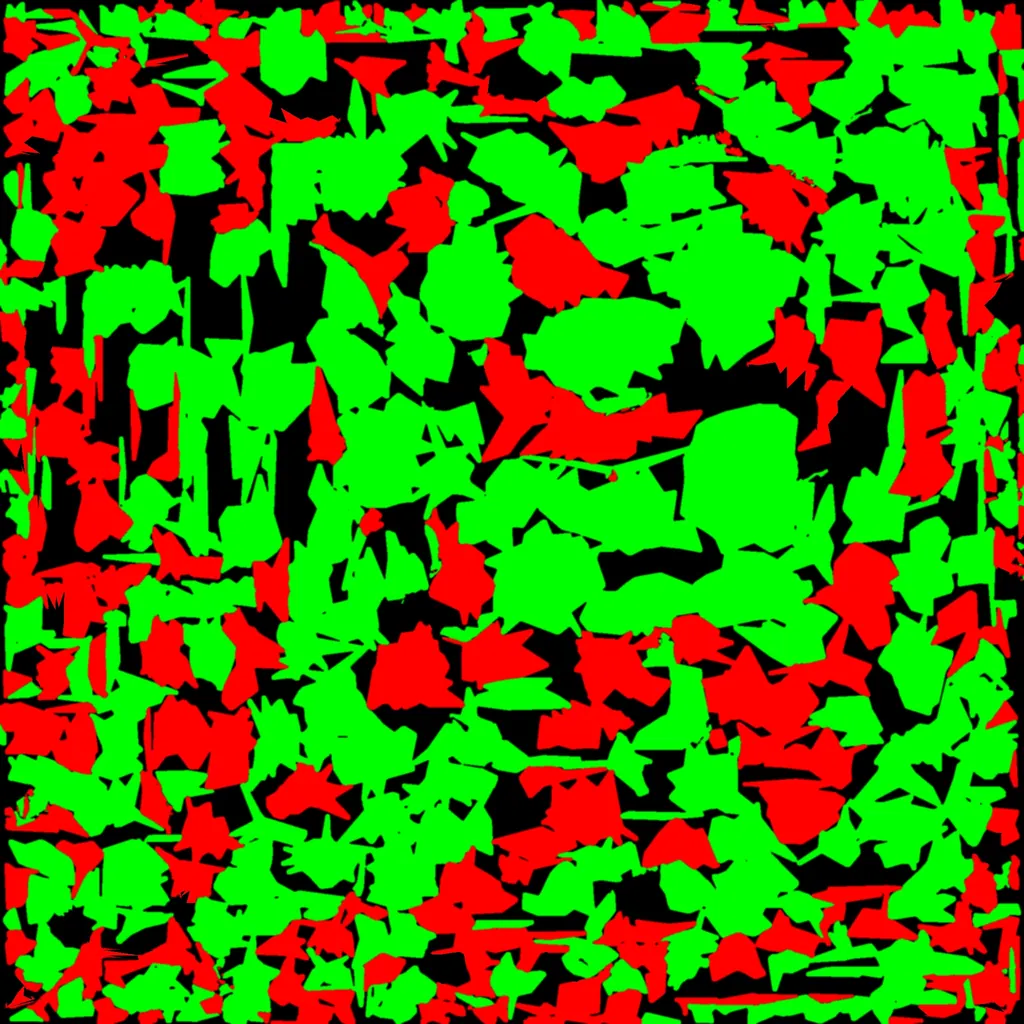
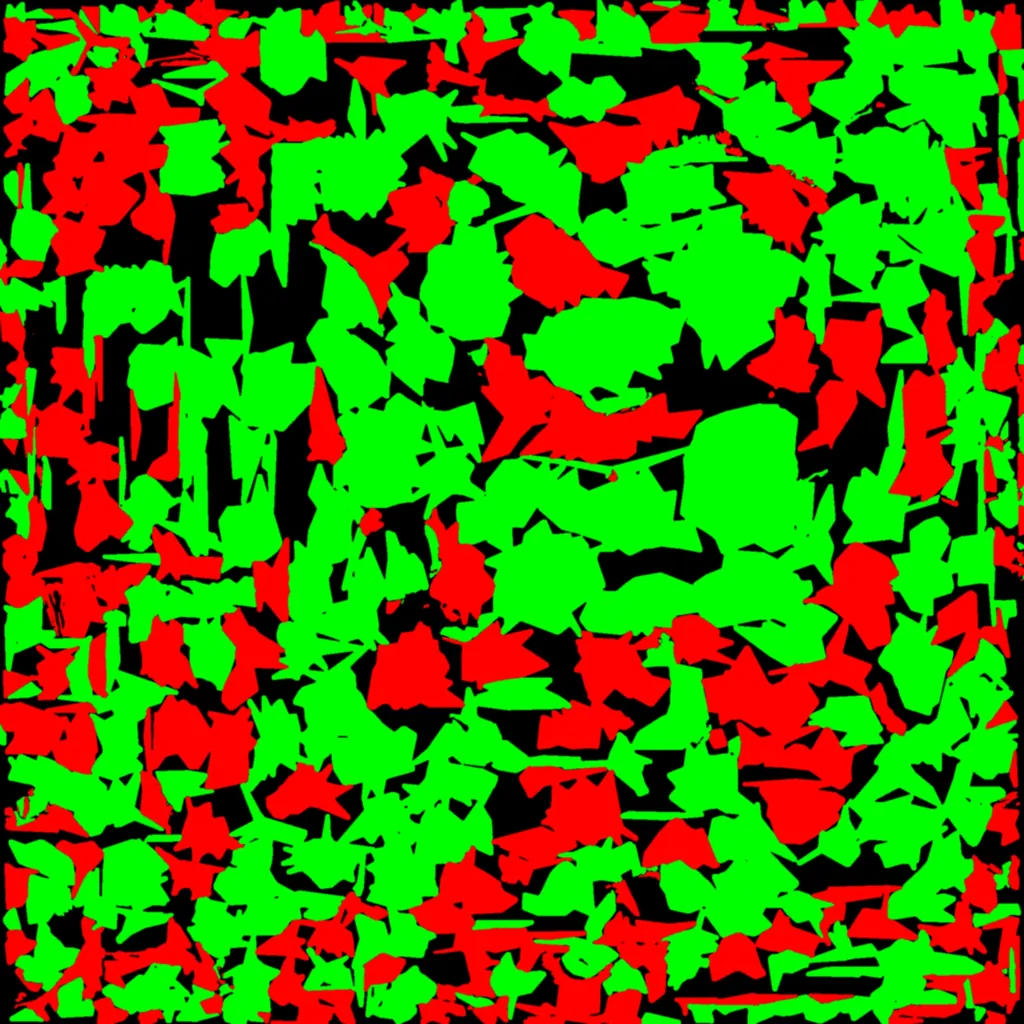
Porté · Duo : bas du t-shirt net au-dessus du short
La limite t-shirt / short de la femme se décide au pixel, sur la couleur (t-shirt blanc, short gris clair),
au lieu de la coupe par triangles qui laissait un bord en dents de scie. Adresses des modèles en ?v=4.

Claude-Session: https://claude.ai/code/session_017CRpNa7BC217D3pkaH4N2V

diff --git a/src/components/MannequinTryOn.tsx b/src/components/MannequinTryOn.tsx
@@ -64,7 +64,7 @@ export type StudioCanvases = { front: HTMLCanvasElement; back: HTMLCanvasElement
 const NO_PRINT: Print3D = {};
 
 // Bump MODELS_V when the files change: browsers and the service worker keep the old ones otherwise.
-const MODELS_V = 3;
+const MODELS_V = 4;
 const modelUrl = (id: Mannequin) => `/models/mannequins/${id}.glb?v=${MODELS_V}`;
 const maskUrl = (id: Mannequin) => `/models/mannequins/${id}-mask.webp?v=${MODELS_V}`;
 /** Starts downloading a mannequin (model + mask) so it shows at once when asked for. */
